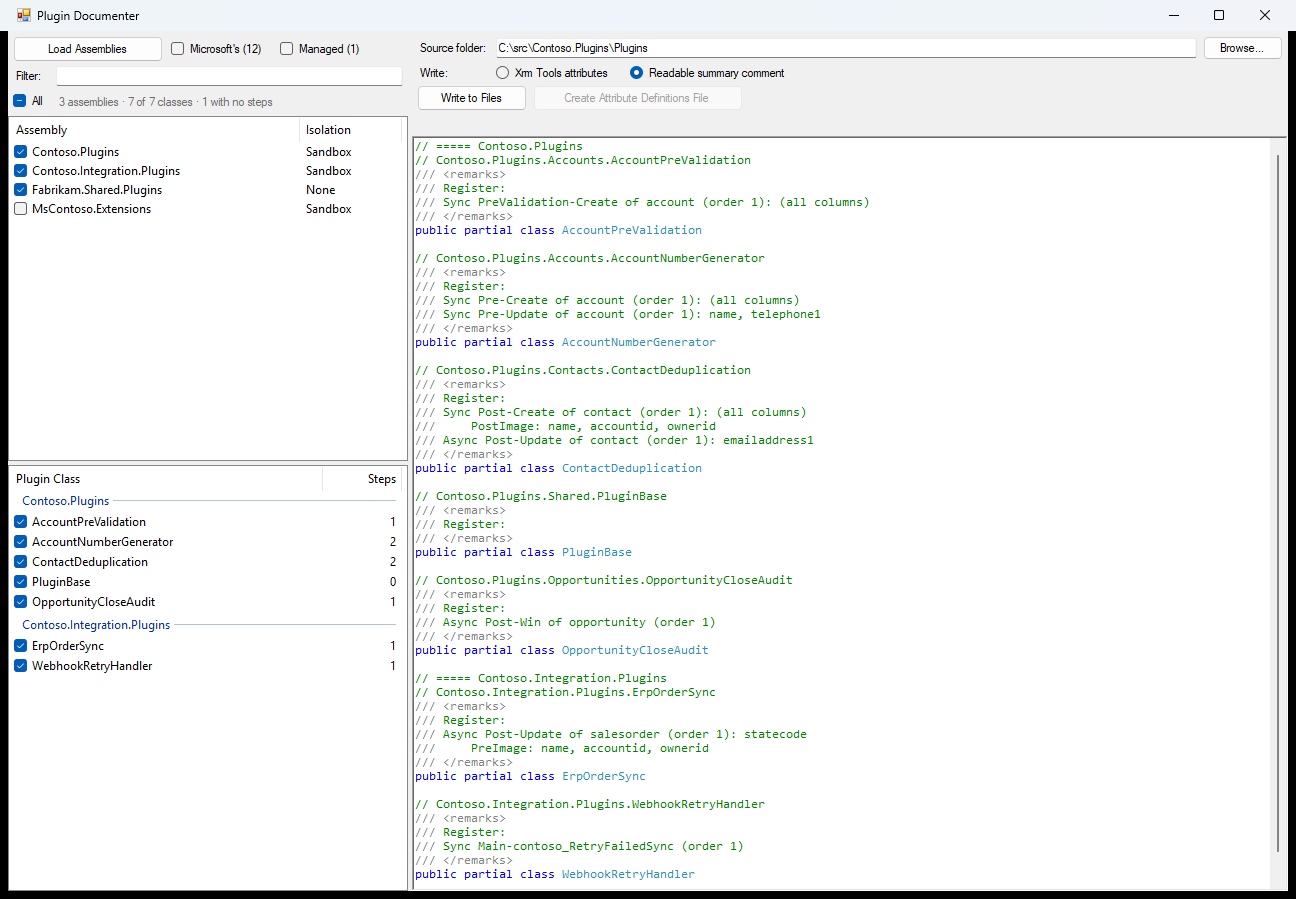
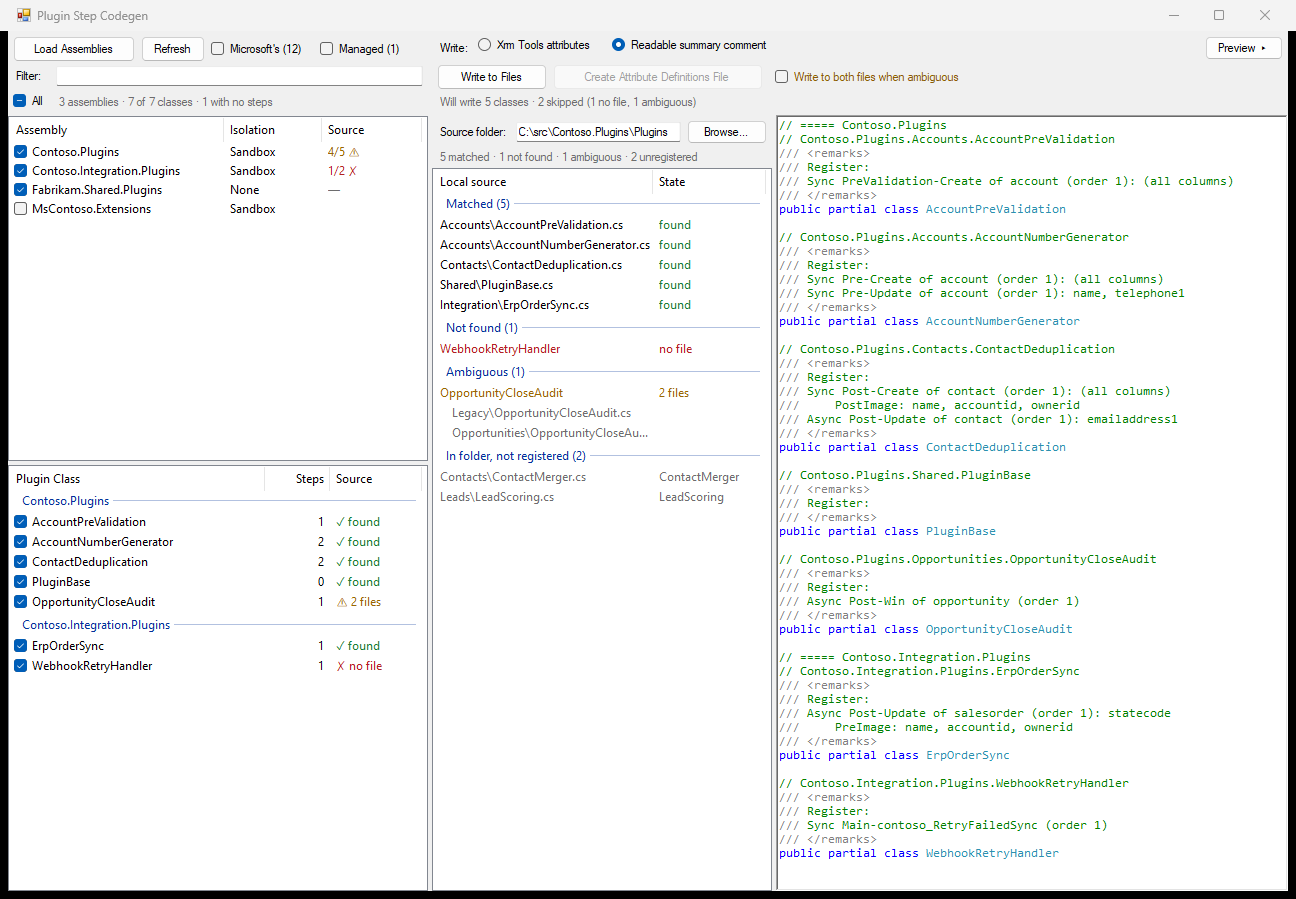
Seed the harness a sample tree with one file per scan state
The screenshots have a source column to show now, so the harness writes
a folder holding one of everything the scan can report - a current
file, a stale one, plain matches, a duplicate pair, two unregistered
classes, and a class with no file at all - and waits for the background
scan before the capture. An env var collapses the preview after the
render, proving the ledger rebuilds at the wide width. The README
screenshots are regenerated from the same run.

Claude-Session: https://claude.ai/code/session_01MRA7USMfhTwAjwG1ieg3tH

diff --git a/tests/PluginStepCodegen.UiHarness/Program.cs b/tests/PluginStepCodegen.UiHarness/Program.cs
@@ -3,6 +3,7 @@ using System.Collections.Generic;
 using System.Drawing;
 using System.Drawing.Imaging;
 using System.IO;
+using System.Linq;
 using System.Reflection;
 using System.Runtime.InteropServices;
 using System.Windows.Forms;
@@ -45,7 +46,11 @@ namespace PluginStepCodegen.UiHarness
             var height = int.Parse(args[1]);
             var outPath = args[2];
             var comment = args.Length > 3 && args[3].Equals("comment", StringComparison.OrdinalIgnoreCase);
-            var folder = args.Length > 4 ? args[4] : null;
+            // The source column scans whatever this points at, so the default is a seeded sample
+            // tree beside the shots rather than this machine's own files.
+            var folder = args.Length > 4
+                ? args[4]
+                : Path.Combine(Path.GetDirectoryName(Path.GetFullPath(args[2])), "sample-src");
             var title = args.Length > 5 ? args[5] : "Plugin Step Codegen UI harness";
 
             // Without this a layout mistake surfaces as a modal error dialog on a machine nobody
@@ -74,8 +79,9 @@ namespace PluginStepCodegen.UiHarness
                 catch (Exception ex) { failures.Add(ex.ToString()); }
 
                 // Let the form settle before grabbing it: the lists redistribute their columns on
-                // resize, and the preview is debounced and then coloured in a pass of its own.
-                var settle = new Timer { Interval = 700 };
+                // resize, the preview is debounced and then coloured in a pass of its own, and the
+                // source scan runs on a worker and lands whenever it lands.
+                var settle = new Timer { Interval = 1800 };
                 settle.Tick += (s2, e2) =>
                 {
                     settle.Stop();
@@ -165,11 +171,15 @@ namespace PluginStepCodegen.UiHarness
                 typesByAssembly[assembly.Id] = SampleTypes(assembly);
             }
 
-            // A folder that exists, so the buttons render enabled - the control greys them out and
-            // says so otherwise, which is the honest render for a path that is not there. Defaults
-            // to the harness's own output folder; nothing is written to either.
-            Field<TextBox>(control, "_txtFolder").Text =
-                folder ?? AppDomain.CurrentDomain.BaseDirectory;
+            // A folder that exists and holds one of everything the scan can find - a current file,
+            // a stale one, plain ones, a duplicate pair, an unregistered class - so the source
+            // column and every mark it feeds render in one shot. Seeded only when the folder is
+            // empty or absent; a folder that already has files in it is left alone.
+            SeedSourceFolder(folder, typesByAssembly);
+            Field<TextBox>(control, "_txtFolder").Text = folder;
+
+            // The state being faked is "assemblies loaded", and a real load enables this.
+            Field<Button>(control, "_btnRefresh").Enabled = true;
 
             if (comment)
             {
@@ -178,6 +188,105 @@ namespace PluginStepCodegen.UiHarness
 
             Invoke(control, "RenderAssemblies");
             Invoke(control, "RenderTypes");
+
+            // An env var rather than yet another positional argument: only one shot ever wants
+            // the output pane collapsed, and the click is the honest way to get there. Deferred
+            // until the background scan has rendered, which is the order a person does it in:
+            // load, look, collapse.
+            if (Environment.GetEnvironmentVariable("UIHARNESS_COLLAPSE_PREVIEW") == "1")
+            {
+                var collapse = new Timer { Interval = 1200 };
+                collapse.Tick += (s, e) =>
+                {
+                    collapse.Stop();
+                    Field<Button>(control, "_btnPreviewToggle").PerformClick();
+                    // And a rescan at the collapsed width, so the shot proves the list can be
+                    // rebuilt while it is wide - the case a resize glitch would eat rows in.
+                    Invoke(control, "StartScan");
+                };
+                collapse.Start();
+            }
+        }
+
+        /// <summary>
+        /// One source file per state the scan can report. WebhookRetryHandler deliberately gets
+        /// no file (not found), OpportunityCloseAudit gets two in the same namespace (ambiguous),
+        /// and two classes exist that nothing registers.
+        /// </summary>
+        private static void SeedSourceFolder(string folder, Dictionary<Guid, List<PluginTypeInfo>> typesByAssembly)
+        {
+            if (Directory.Exists(folder) && Directory.EnumerateFileSystemEntries(folder).Any())
+            {
+                return;
+            }
+
+            Directory.CreateDirectory(folder);
+            var byName = typesByAssembly.Values.SelectMany(t => t).ToDictionary(t => t.ClassName);
+
+            Seed(folder, @"Shared\PluginBase.cs",
+                PluginFile("Contoso.Plugins.Shared", "PluginBase", "IPlugin", isAbstract: true));
+            Seed(folder, @"Accounts\AccountPreValidation.cs",
+                WithAttributes(byName["AccountPreValidation"], stale: false));
+            Seed(folder, @"Accounts\AccountNumberGenerator.cs",
+                WithAttributes(byName["AccountNumberGenerator"], stale: true));
+            Seed(folder, @"Contacts\ContactDeduplication.cs",
+                PluginFile("Contoso.Plugins.Contacts", "ContactDeduplication", "PluginBase"));
+            Seed(folder, @"Opportunities\OpportunityCloseAudit.cs",
+                PluginFile("Contoso.Plugins.Opportunities", "OpportunityCloseAudit", "PluginBase"));
+            Seed(folder, @"Legacy\OpportunityCloseAudit.cs",
+                PluginFile("Contoso.Plugins.Opportunities", "OpportunityCloseAudit", "PluginBase"));
+            Seed(folder, @"Integration\ErpOrderSync.cs",
+                PluginFile("Contoso.Integration.Plugins", "ErpOrderSync", "PluginBase"));
+            Seed(folder, @"Contacts\ContactMerger.cs",
+                PluginFile("Contoso.Plugins.Contacts", "ContactMerger", "IPlugin"));
+            Seed(folder, @"Leads\LeadScoring.cs",
+                PluginFile("Contoso.Plugins.Leads", "LeadScoring", "PluginBase"));
+        }
+
+        private static void Seed(string folder, string relative, string content)
+        {
+            var path = Path.Combine(folder, relative);
+            Directory.CreateDirectory(Path.GetDirectoryName(path));
+            File.WriteAllText(path, content);
+        }
+
+        /// <summary>
+        /// The registration's own attributes spliced in, exactly as a write would leave them -
+        /// which is what "current" means. Stale trims the emission to one step first, so the
+        /// file carries this tool's output and no longer matches.
+        /// </summary>
+        private static string WithAttributes(PluginTypeInfo type, bool stale)
+        {
+            var emitted = type;
+            if (stale)
+            {
+                emitted = new PluginTypeInfo
+                {
+                    Id = type.Id,
+                    AssemblyId = type.AssemblyId,
+                    TypeName = type.TypeName,
+                    Steps = type.Steps.Take(1).ToList()
+                };
+            }
+
+            var bare = PluginFile(type.Namespace, type.ClassName, "PluginBase");
+            return CodeFileWriter.Splice(bare, type.ClassName, null, AttributeEmitter.Emit(emitted));
+        }
+
+        private static string PluginFile(string ns, string className, string baseName, bool isAbstract = false)
+        {
+            return "using System;\r\n"
+                   + "using Microsoft.Xrm.Sdk;\r\n"
+                   + "\r\n"
+                   + "namespace " + ns + "\r\n"
+                   + "{\r\n"
+                   + "    public " + (isAbstract ? "abstract " : "") + "class " + className + " : " + baseName + "\r\n"
+                   + "    {\r\n"
+                   + "        public void Execute(IServiceProvider serviceProvider)\r\n"
+                   + "        {\r\n"
+                   + "        }\r\n"
+                   + "    }\r\n"
+                   + "}\r\n";
         }
 
         private static List<AssemblyInfo> SampleAssemblies()
